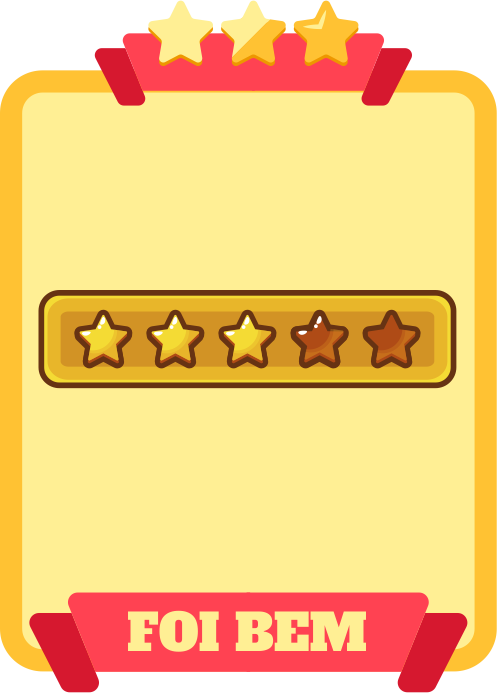
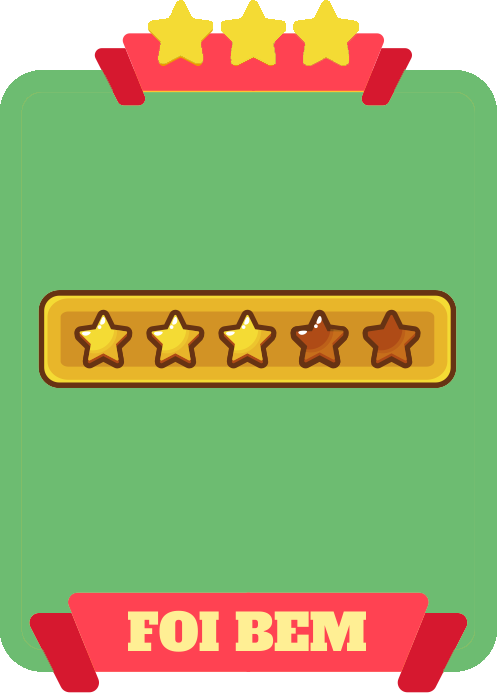
modificacoes finais

diff --git a/src/app/services/auth.service.ts b/src/app/services/auth.service.ts
@@ -37,7 +37,7 @@ export class AuthService {
     localStorage.setItem("currentUser", JSON.stringify(user));
     this.loggedIn.next(true);
     this.router.navigate(["/home"]);
-    this.toastService.presentSimpleToast("You were entered successfully!");
+    this.toastService.presentSimpleToast("Logado com sucesso!");
   }
 
   getCurrentUser(): User {
@@ -57,6 +57,6 @@ export class AuthService {
     localStorage.removeItem("currentUser");
     this.loggedIn.next(false);
     this.router.navigate(["/"]);
-    this.toastService.presentSimpleToast("Successfully logged out!");
+    this.toastService.presentSimpleToast("Desconectado com sucesso!");
   }
 }

diff --git a/src/app/app.component.ts b/src/app/app.component.ts
@@ -26,16 +26,6 @@ export class AppComponent {
       title: "Contato",
       url: "/contact",
       icon: "mail-open"
-    },
-    {
-      title: "Sobre",
-      url: "/about",
-      icon: "information-circle"
-    },
-    {
-      title: "Termos e condição",
-      url: "/term",
-      icon: "construct"
     }
   ];
 

diff --git a/src/app/app.scss b/src/app/app.scss
@@ -6,10 +6,11 @@
 // and used throughout the application.
 
 .my-custom-modal-css .modal-wrapper {
+    --background: transparent !important;
     height: 80%;
     position: center; 
     margin-left: 5%;
     margin-right: 5%;
-    z-index:2;
-	opacity: 0.5;
+    
+	
  }

diff --git a/src/app/modal/results/results.page.scss b/src/app/modal/results/results.page.scss
@@ -1,0 +1,3 @@
+ion-content{
+    --background: transparent;
+}
